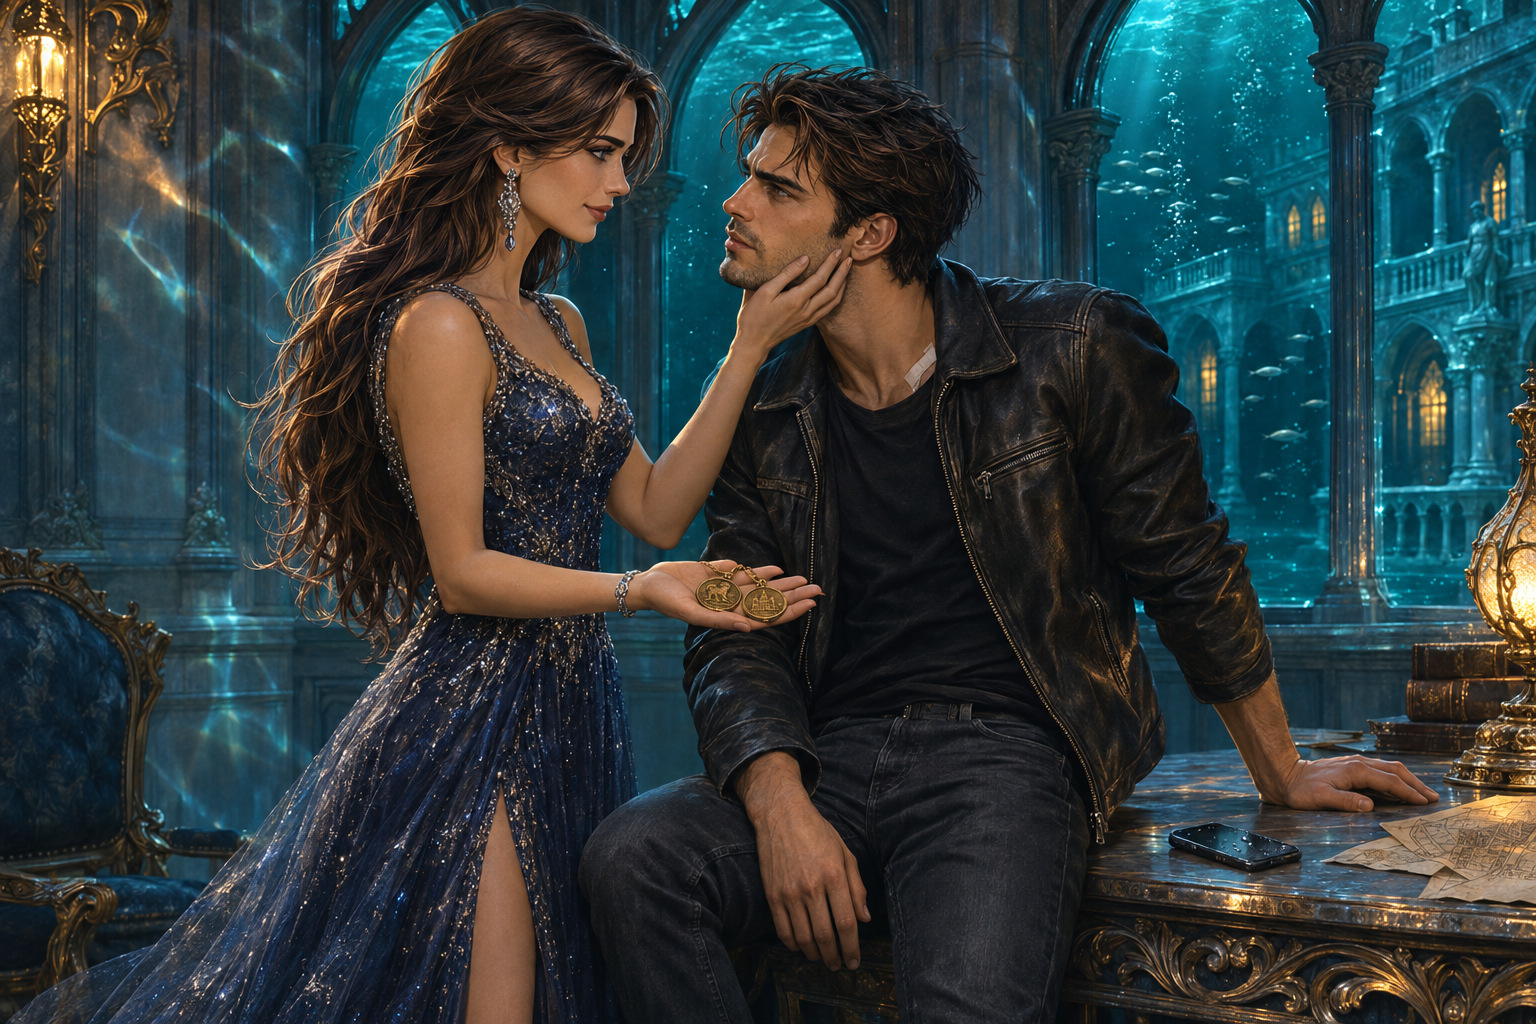
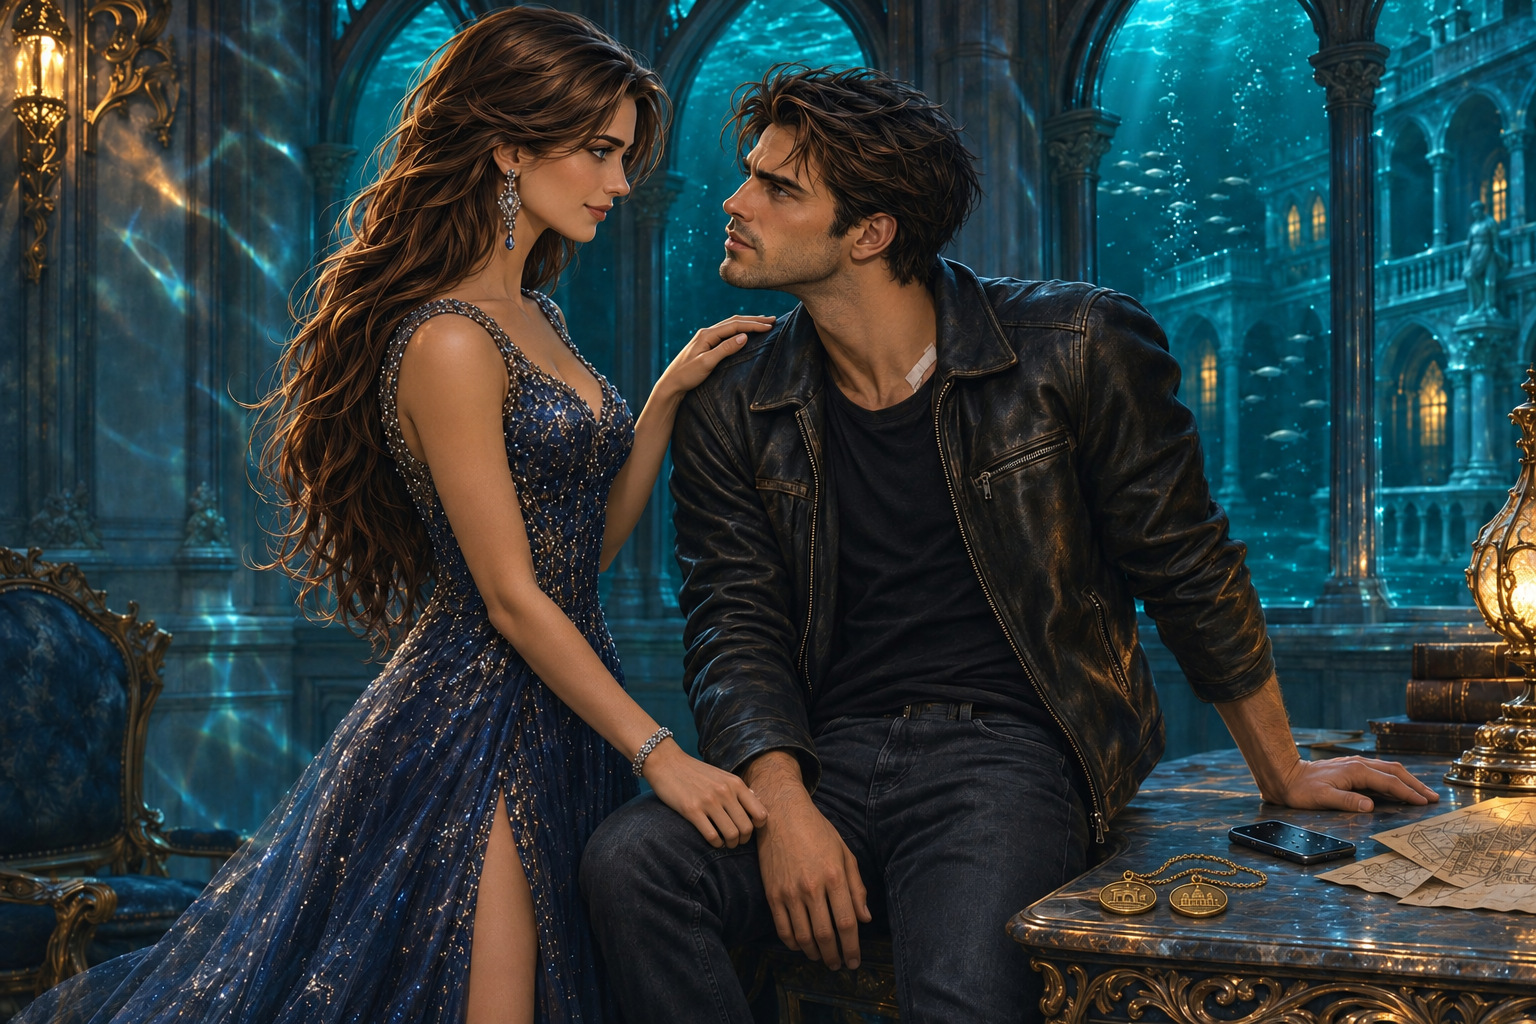
Correct Natalia's hand pose in Russian Venetian Mask chapter 34 illustration

diff --git a/novels/venecianskaya-maska/34.md b/novels/venecianskaya-maska/34.md
@@ -110,7 +110,7 @@
 
 — У нас есть это.
 
-![Наталья показывает два медальона раненому Роберто](novels/venecianskaya-maska/img/completamento-20261123/34-medaglioni-palazzo.jpg)
+![Наталья показывает два медальона раненому Роберто](novels/venecianskaya-maska/img/completamento-20261123/34-medaglioni-palazzo.jpg?v=hands-20261123)
 
 Роберто посмотрел на них и скривился.
 
